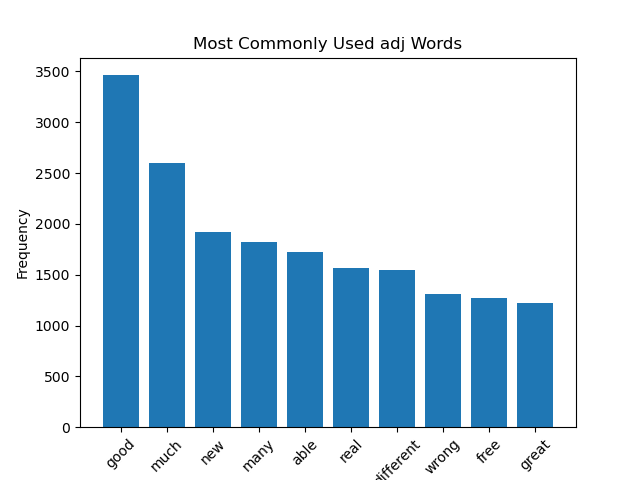
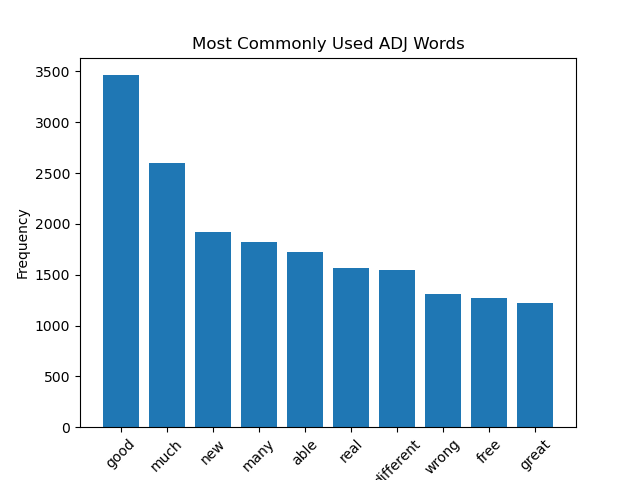
more functions

Changed region(s): [[0.2812, 0.0625, 0.7188, 0.125]]

diff --git a/FinalWork/initializer.py b/FinalWork/initializer.py
@@ -10,6 +10,20 @@ from nltk.corpus import stopwords
 noise = stopwords.words("english")
 
 
+# data  [("word", frequency)]
+def depict(data: list[tuple[str, int]], name: str):
+    # depict the picture of most common adj
+    x_values = [word[0] for word in data]
+    y_values = [word[1] for word in data]
+    plt.bar(x_values, y_values)
+    plt.xlabel('Word')
+    plt.xticks(rotation=45)
+    plt.ylabel('Frequency')
+    plt.title('Most Commonly Used ' + name + ' Words')
+    plt.savefig("Most Commonly Used " + name + " Words.png")
+    plt.show()
+
+
 def part_of_speech(words):
     # Define the classes and their corresponding keywords
     data = []
@@ -28,16 +42,43 @@ def part_of_speech(words):
                 adj.append(data[i][j][0])
     words_count = Counter(adj)
     # depict the picture of most common adj
-    top_words = words_count.most_common(10)  # Change the number to show more/less words
-    x_values = [word[0] for word in top_words]
-    y_values = [word[1] for word in top_words]
-    plt.bar(x_values, y_values)
-    plt.xlabel('Word')
-    plt.xticks(rotation=45)
-    plt.ylabel('Frequency')
-    plt.title('Most Commonly Used adj Words')
-    plt.savefig("Most Commonly Used adj Words.png")
-    plt.show()
+    top_words = words_count.most_common(10)
+    # depict it
+    depict(top_words, "ADJ")
+    #
+    #
+    # depict the picture of most common JJS
+    JJS = []
+    for i in range(len(data)):
+        for j in range(len(data[i])):
+            if data[i][j][1] == "JJS":
+                JJS.append(data[i][j][0])
+    words_count = Counter(JJS)
+    # depict the picture of most common noun
+    depict(words_count.most_common(10), "JJS")
+    #
+    #
+    # depict the picture of most common verb
+    verb = []
+    for i in range(len(data)):
+        for j in range(len(data[i])):
+            if data[i][j][1] == "VB":
+                verb.append(data[i][j][0])
+    words_count = Counter(verb)
+    # depict the picture of most common verb
+    depict(words_count.most_common(10), "VB")
+    #
+    #
+    # depict the picture of most common noun
+    noun = []
+    for i in range(len(data)):
+        for j in range(len(data[i])):
+            if data[i][j][1] == "NN":
+                noun.append(data[i][j][0])
+    words_count = Counter(noun)
+    # depict the picture of most common noun
+    depict(words_count.most_common(10), "NN")
+    #
 
 
 def general_counter(words):
